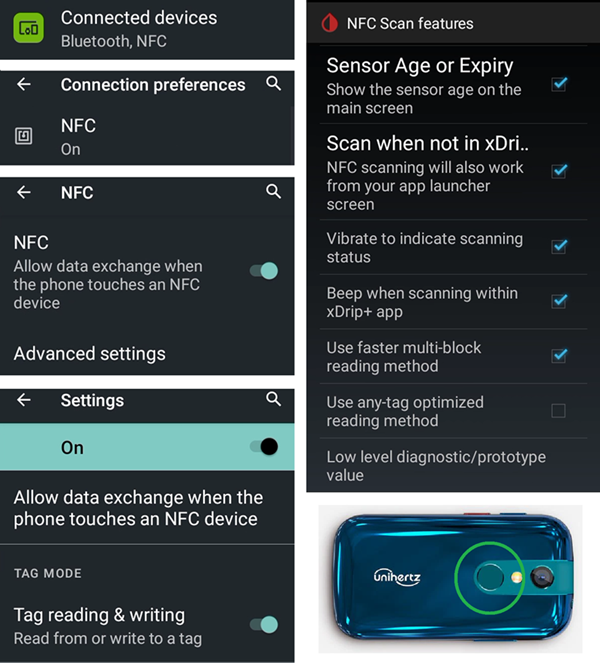
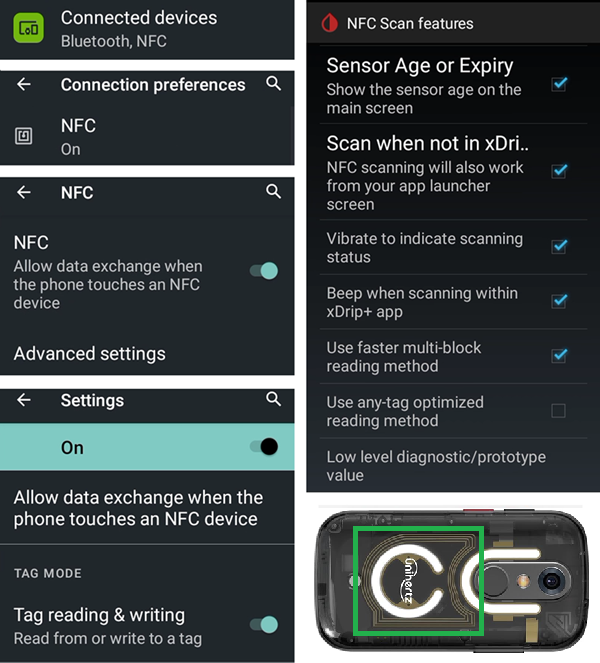
Wear OS versions update

Changed region(s): [[0.51, 0.7541, 0.99, 0.9955]]

diff --git a/docs/EN/CompatiblePhones/Jelly.md b/docs/EN/CompatiblePhones/Jelly.md
@@ -1,13 +1,15 @@
 # Jelly
 
-## Jelly 2
+## Jelly Star Mini 
 
-Do not confuse with Jelly Star (below).
+**Features**
+
+* Android 13
+* 8 GB RAM
 
 **Advantages**
 
 * It's really small.
-* Android 11.
 * Even if you tell people, they might not consider it as a normal smartphone and will except it easier as a exception when phones are normally not allowed.
 
 **Disadvantages**
@@ -17,7 +19,7 @@ Do not confuse with Jelly Star (below).
 
 ### Battery life optimization
 
-The Jelly 2 comes with strong optimization features that **must** be disabled for AAPS (and other DIY apps like BYODA, xDrip+, OOP2, Juggluco, etc...).
+The Jelly comes with strong optimization features that **must** be disabled for AAPS (and other DIY apps like BYODA, xDrip+, OOP2, Juggluco, etc...).
 
 ![](../images/Jelly_Settings1.png)
 
@@ -29,24 +31,11 @@ You can enable NFC for Libre sensors.
 
 ![](../images/Jelly_Settings3.png)
 
-## Jelly Star Mini 
-
-**Features**
-
-* Android 13
-* 8 GB RAM
-
 ### Battery life optimization
 
 To avoid interference with **AAPS**, the Jelly Star 'battery usage' should be disabled by selecting 'unrestricted' (and other **DIY apps** like BYODA, xDrip+, OOP2, Juggluco, etc...).
 
 ![Jelly_BatterY_1ACA756A-2EC4-4623-B8C4-2CEB9D230A93](../images/JellyStarMini1.jpg)
-
-### Intelligent Assistance and App Blocker 
-
-Like with the Jelly 2 (above), the Jelly Star should have 'Intelligent Assistance' disabled for **DIY apps**. Similarly, 'App Blocker' under 'Settings' must also be switched off to avoid disruption with **AAPS**: 
-
-![App Blocker Screenshot 2025-08-03 213400](../images/JellyStarMini2.jpg)
 
 ### Google Play Protect 
 
@@ -54,7 +43,7 @@ Remember to disable Google Play Protect.
 
 ### Remote Connection for Weak apk
 
-For certain smart watches, like the Samsung Galaxy, 'Remote Connection' under Samsung Galaxy's Advanced Features must be switched **on** to use the Jelly 2, **Wear.apk** & **AAPS** remotely via Wi-Fi.
+For certain smart watches, like the Samsung Galaxy, 'Remote Connection' under Samsung Galaxy's Advanced Features must be switched **on** to use the Jelly, **Wear.apk** & **AAPS** remotely via Wi-Fi.
 
 ![MURCIMG-20251007-WA0000](../images/500234283-5db08a08-f256-49a0-8843-46bdd01b33d6.png)
 

diff --git a/docs/EN/CompatiblePhones/Huawei.md b/docs/EN/CompatiblePhones/Huawei.md
@@ -21,7 +21,7 @@ There are different options, some Android specific, some Huawei specific:
      * Automatic launch
      * Secondary launch (can be launched from other apps)
      * Background run
-          
+       
        ![Huawei - battery options](../images/Huawei_BatteryOptions.png)
   
 * Lock App
@@ -29,12 +29,3 @@ There are different options, some Android specific, some Huawei specific:
   
     ![Huawei - lock app](../images/Huawei_LockApp.png)
   
-  
-
-For xDrip+, you must enable persistent notifications (within xDrip+ app):
-* Settings / less common settings / other misc options / Run Collector in foreground
-
-   ![xdrip+ settings - collector in foreground](../images/xdrip_collector_foreground.png)
-
-
-Depending on Android version, these settings are somewhere else. These explanations are for Android 8.1.

diff --git a/docs/EN/WearOS/BuildingAapsWearOS.md b/docs/EN/WearOS/BuildingAapsWearOS.md
@@ -6,10 +6,10 @@ If you are already using **AAPS** on a phone and you did not build both the phon
 
 ## Supported Wear OS versions
 
-AAPS requires at least Wear OS API level 28 (Android 9).
+AAPS requires at least Wear OS API level 31 (Android 12).
 
 ```{warning}
-AAPS Watchfaces are available for Wear OS smartwatches with API level 28 to 33.<br>
+AAPS Watchfaces are available for Wear OS smartwatches with API level 31 to 33.<br>
 Wear OS 5 has [limitations](#BuildingAapsWearOs-WearOS5).
 ```
 

diff --git a/docs/EN/Getting-Started/Watches.md b/docs/EN/Getting-Started/Watches.md
@@ -79,7 +79,7 @@ Verify your smartwatch satisfies **AAPS** [prerequisites](#maintenance-android-v
 The first three smartwatch options require the smartwatch to have **Wear OS** installed. 
 
 **Wear OS** is the operating system which runs on some modern Android smartwatches. If the description of the smartwatch indicates only _compatibility_ with Android and iOS - it does not mean it is running Wear OS. It may be some other sort of Vendor specific operating system which is not compatible with **AAPS**. 
-To support installation and use of any version of **AAPS** or **AAPSClient**, a smartwatch will need to be running **Wear OS**, and be Android 11 or newer. As a guide, as of October 2024, the latest release of **Wear OS** is version 5.0 (based on Android 13).
+To support installation and use of any version of **AAPS** or **AAPSClient**, a smartwatch must be running **Wear OS** with at least Android 12 (Wear OS API level 31). To check whether a watch qualifies, note that each Wear OS release follows the Android version it is based on — for example **Wear OS 4** is Android 13 (API level 33) and **Wear OS 5** is Android 14 (API level 34).
 
 If you install **AAPS** wear.apk on a **Wear OS** watch, there are a range of different custom **AAPS** watchfaces which can be selected. Alternatively, you can use a standard smartphone watchface, with your **AAPS** information included in small tiles known as “complications” on the face. A complication is any feature that is displayed on a watchface in addition to the time.
 

diff --git a/docs/EN/Maintenance/ReleaseNotes.md b/docs/EN/Maintenance/ReleaseNotes.md
@@ -54,7 +54,7 @@ In order to allow users with older Android to use older version of AAPS new vers
 
 ## WearOS version
 
-- AAPS requires at least WearOS API level 30 (Android 11)
+- AAPS requires at least WearOS API level 31 (Android 12)
 
 ```{tip}
 WearOS 5, API level 34 (Android 14) has [limitations](#BuildingAapsWearOs-WearOS5).

diff --git a/docs/EN/RemoteFeatures/RemoteControlWearOS.md b/docs/EN/RemoteFeatures/RemoteControlWearOS.md
@@ -5,7 +5,7 @@
 ## AAPS Watchfaces
 
 ```{warning}
-AAPS Watchfaces are available for Wear OS smartwatches with API level 28 to 33.
+AAPS Watchfaces are available for Wear OS smartwatches with API level 31 to 33.
 Wear OS 5 changes locked the watchfaces: only complications can be used.
 ```
 